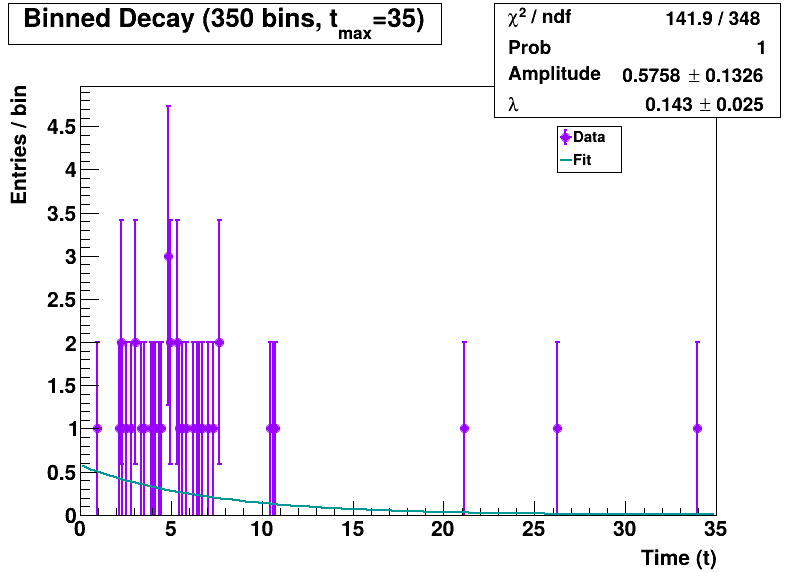
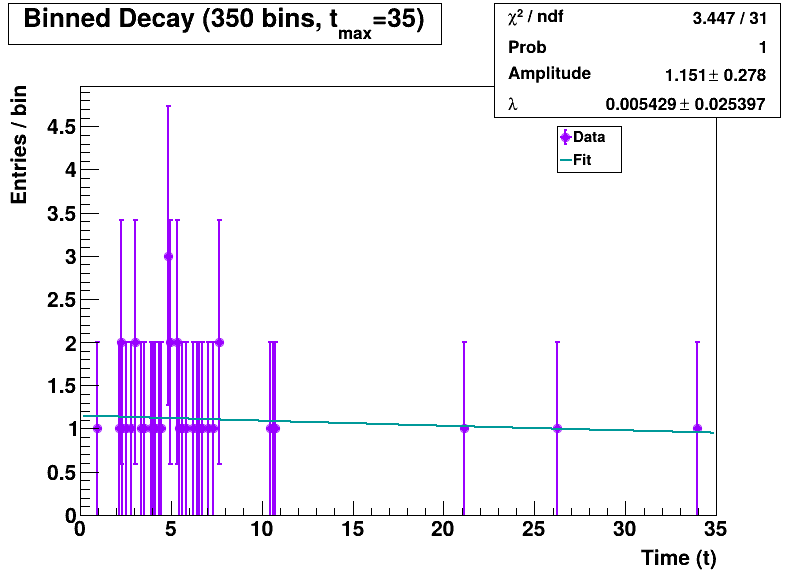
modified:   BinnedFit_350Bins.png 	modified:   BinnedFit_3Bins.png 	modified:   BinnedFit_5Bins.png 	modified:   ML_Project_Part2.c

diff --git a/2/ML_Project_Part2.c b/2/ML_Project_Part2.c
@@ -158,7 +158,7 @@ void ML_Project_Part2(){ // <--- RENAMED HERE
     fitFunc1->SetParameter(0, approx_norm1 > 0 ? approx_norm1 : N_data);
     fitFunc1->SetLineColor(kRed);
     fitFunc1->SetLineWidth(2);
-    TFitResultPtr r1 = h1->Fit(fitFunc1, "L Q S"); // L for likelihood method, Q for quiet, S for save
+    TFitResultPtr r1 = h1->Fit(fitFunc1, "Q S"); // L for likelihood method, Q for quiet, S for save
     double lambda_binned1 = -1, err_lambda_binned1 = -1;
     if (r1->IsValid()) {
         lambda_binned1 = r1->Parameter(1); err_lambda_binned1 = r1->ParError(1);
@@ -209,7 +209,7 @@ void ML_Project_Part2(){ // <--- RENAMED HERE
     fitFunc2->SetParameter(0, approx_norm2 > 0 ? approx_norm2 : N_data);
     fitFunc2->SetLineColor(kOrange+7);
     fitFunc2->SetLineWidth(2);
-    TFitResultPtr r2 = h2->Fit(fitFunc2, "L Q S"); // L for likelihood method, Q for quiet, S for save
+    TFitResultPtr r2 = h2->Fit(fitFunc2, "Q S"); // L for likelihood method, Q for quiet, S for save
     double lambda_binned2 = -1, err_lambda_binned2 = -1;
     if (r2->IsValid()) {
         lambda_binned2 = r2->Parameter(1); err_lambda_binned2 = r2->ParError(1);
@@ -252,7 +252,7 @@ void ML_Project_Part2(){ // <--- RENAMED HERE
     fitFunc3->SetParameter(0, N_data * lambda_ml_unbinned > 0 ? N_data * lambda_ml_unbinned : N_data);
     fitFunc3->SetLineColor(kCyan+2);
     fitFunc3->SetLineWidth(2);
-    TFitResultPtr r3 = h3->Fit(fitFunc3, "L Q S"); // L for likelihood method, Q for quiet, S for save
+    TFitResultPtr r3 = h3->Fit(fitFunc3, "Q S"); // L for likelihood method, Q for quiet, S for save
     double lambda_binned3 = -1, err_lambda_binned3 = -1;
     if (r3->IsValid()) {
         lambda_binned3 = r3->Parameter(1); err_lambda_binned3 = r3->ParError(1);
